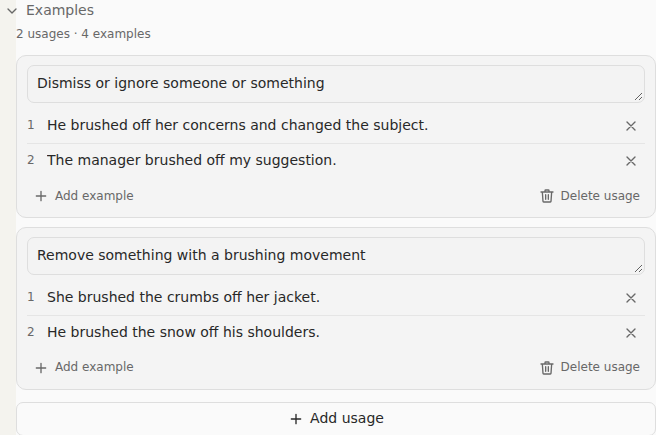
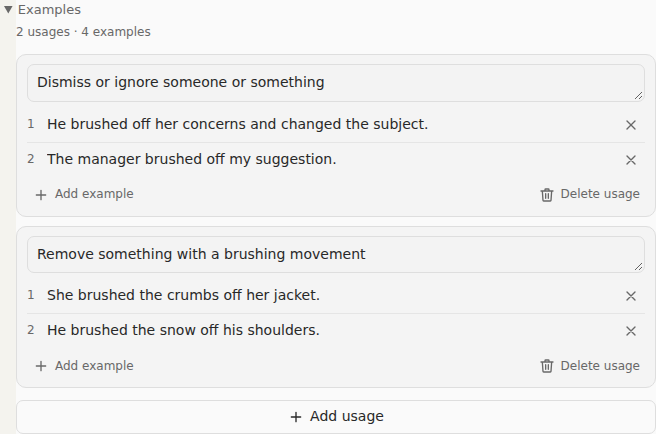
ui: match Examples disclosure arrow to other sections

diff --git a/styles.css b/styles.css
@@ -1073,44 +1073,30 @@
   container-name: cc-examples;
 }
 .cc-panel .cc-examples.cc-teaching-section > summary {
-  display: flex;
-  align-items: center;
-  justify-content: space-between;
-  gap: 8px;
-  flex-wrap: wrap;
+  display: list-item;
   padding: 0;
   margin: 0;
-  list-style: none;
   color: var(--cc-ex-dim);
   font: inherit;
+  font-size: 13px;
+  margin-inline-start: calc(-1 * var(--cc-heading-outdent));
   cursor: pointer;
 }
 .cc-panel .cc-examples[open] > summary {
   margin-bottom: 12px;
 }
-.cc-examples > summary::-webkit-details-marker {
-  display: none;
-}
 .cc-examples-title {
-  display: flex;
-  align-items: center;
-  gap: 6px;
-  margin-inline-start: calc(-1 * var(--cc-heading-outdent));
+  display: inline;
 }
 .cc-panel:not(.cc-writing-workflow) [data-cc-section='explanation'] > summary {
   margin-inline-start: calc(-1 * var(--cc-heading-outdent));
-}
-.cc-examples-chevron {
-  display: inline-flex;
-}
-.cc-examples[open] > summary .cc-examples-chevron {
-  transform: rotate(90deg);
 }
 .cc-examples-total {
   display: block;
   font-size: 12px;
   color: var(--cc-ex-dim);
   margin-top: 3px;
+  margin-inline-start: var(--cc-heading-outdent);
 }
 .cc-examples-editor {
   padding: 0;

diff --git a/tests/ui/examples-editor.spec.ts b/tests/ui/examples-editor.spec.ts
@@ -116,8 +116,14 @@ for (const width of [320, 736]) {
         'background-color',
         theme === 'dark' ? 'rgb(37, 37, 37)' : 'rgb(240, 239, 233)',
       );
-      const arrow = (await section.locator('.cc-examples-chevron').boundingBox())!;
-      expect((await firstUsage.boundingBox())!.x - arrow.x).toBeCloseTo(12, 0);
+      const summary = section.locator(':scope > summary');
+      await expect(summary).toHaveCSS('display', 'list-item');
+      await expect(summary).toHaveCSS('list-style-type', 'disclosure-open');
+      await expect(section.locator('.cc-examples-chevron')).toHaveCount(0);
+      expect((await firstUsage.boundingBox())!.x - (await summary.boundingBox())!.x).toBeCloseTo(
+        12,
+        0,
+      );
       for (const control of [
         firstUsage.locator('.cc-example-delete').first(),
         firstUsage.locator('.cc-delete-usage'),

diff --git a/src/examples-editor.ts b/src/examples-editor.ts
@@ -50,9 +50,7 @@ export function renderExamplesEditor(
     return control;
   };
   const heading = summary.createSpan({ cls: 'cc-examples-heading' });
-  const title = heading.createSpan({ cls: 'cc-examples-title', text: 'Examples' });
-  const disclosureIcon = icon(title, 'chevron-right');
-  disclosureIcon.addClass('cc-examples-chevron');
+  heading.createSpan({ cls: 'cc-examples-title', text: 'Examples' });
   const total = heading.createSpan({ cls: 'cc-examples-total' });
   summary.addEventListener('click', () => {
     if (section.open) return;

diff --git a/docs/DEVELOPMENT.md b/docs/DEVELOPMENT.md
@@ -95,6 +95,7 @@ Consolidate related entries, revise them as behavior changes, and remove entries
 
 ## Unreleased changes
 
+- Examples uses the same native disclosure triangles as Explanation & usage notes, including keyboard toggling and open/closed states.
 - Vocabulary's Add to Anki keeps its existing green color and darkens on hover when enabled.
 - The top Clear all button highlights red on hover in both modes; its normal appearance and other buttons stay unchanged.
 - Vocabulary Examples now uses compact usage cards with editable sentence lists. Add or delete usages and individual examples, and undo deletions. The Clear examples button has been removed. Examples remains the final teaching section, below Explanation & usage notes.
